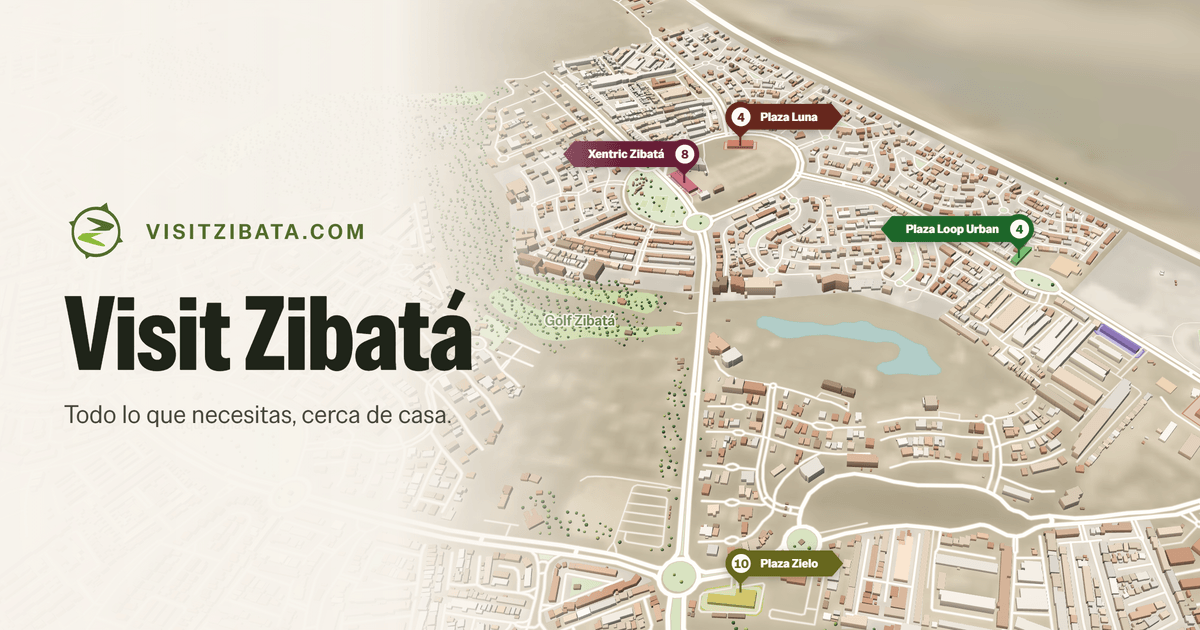
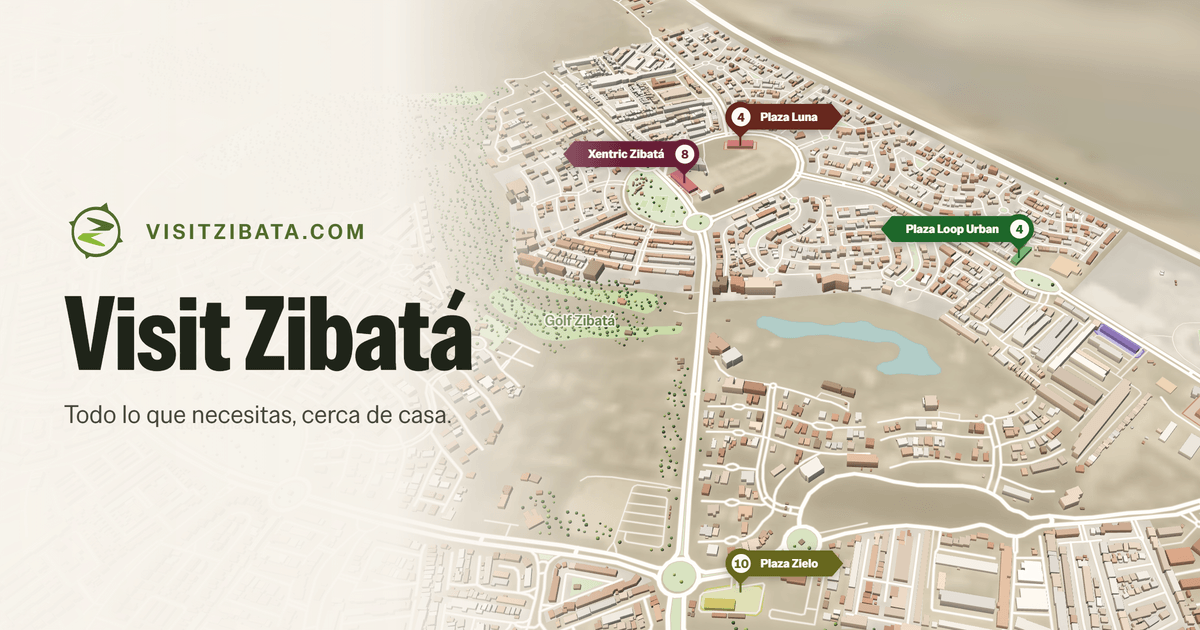
Mapa: el realismo va encendido por defecto (fase 4)
El mapa dibuja suelo, relieve, edificios y árboles propios, y el contexto
alrededor del contorno, para todos los visitantes. ?realismo=no lo apaga
por visitante; apagarlo para todos es revertir este merge.

- Experience lee el parámetro al montar (la sincronización de la URL
  descarta los que no conoce): encendido salvo ?realismo=no.
- Las imágenes sociales se regeneran con el mapa publicado (371 y 370 KB).
- Pruebas: ?realismo=no no pide ni monta nada; sin parámetro llega a
  "completo". La matriz completa pasa con el realismo encendido: 536
  pasadas, 168 omitidas, ninguna fallida.
- deploy.yml: el tope del trabajo pasa de 40 a 50 minutos. El humo de
  escritorio tardó unos 17 minutos en el runner con el realismo apagado
  (despliegue de #60) y ahora cada prueba que abre el mapa dibuja las capas
  propias en software; con 40 no quedaba margen para publicar.

Sin medición en un iPhone real: se activa con el respaldo por falla, la
calidad adaptable y la prueba de WebKit en software como red de seguridad.

diff --git a/tests/e2e/realismo.spec.ts b/tests/e2e/realismo.spec.ts
@@ -2,15 +2,23 @@ import { expect, test } from '@playwright/test'
 import { openApp, waitForMap } from './helpers.ts'
 
 test.describe('Realismo del mapa @mapa', () => {
-  test('sin el parámetro no se pide ninguna capa de realismo', async ({ page }) => {
+  test('con ?realismo=no no se pide ninguna capa de realismo', async ({ page }) => {
     const pedidas: string[] = []
     page.on('request', (request) => {
       if (request.url().includes('/map/realismo/')) pedidas.push(request.url())
     })
-    await openApp(page)
+    await openApp(page, { path: '?realismo=no' })
     await waitForMap(page)
     await page.waitForTimeout(1500)
     expect(pedidas).toEqual([])
+  })
+
+  test('sin parámetro el realismo va encendido y llega a completo', async ({ page }) => {
+    await openApp(page)
+    await waitForMap(page)
+    await expect(page.locator('[data-realismo]')).toHaveAttribute('data-realismo', 'completo', {
+      timeout: 60_000,
+    })
   })
 
   test('con ?realismo=si carga suelo, contexto, calles y relieve del mismo origen, con sus créditos', async ({
@@ -151,8 +159,8 @@ test.describe('Realismo del mapa @mapa', () => {
     await expect(page.locator('button[data-mode]').first()).toBeVisible()
   })
 
-  test('sin el parámetro no se monta ninguna capa propia', async ({ page }) => {
-    await openApp(page)
+  test('con ?realismo=no no se monta ninguna capa propia', async ({ page }) => {
+    await openApp(page, { path: '?realismo=no' })
     await waitForMap(page)
     await page.waitForTimeout(1500)
     await expect(page.locator('[data-realismo]')).toHaveCount(0)

diff --git a/src/app/Experience.tsx b/src/app/Experience.tsx
@@ -223,9 +223,10 @@ function ReadyExperience({ catalog }: { catalog: Catalog }) {
   const sheetPeekHeight = collapsedHeightFor(sheetPeek, viewportHeight, sheetTopReserved)
   const [map, setMap] = useState<MapLibreMap | null>(null)
   const [debugRequested] = useState(() => new URLSearchParams(window.location.search).has('debug'))
-  // Se lee al montar: la sincronización de la URL descarta los parámetros que no conoce.
+  // El realismo va encendido; `?realismo=no` lo apaga. Se lee al montar: la sincronización de la URL
+  // descarta los parámetros que no conoce.
   const [realismo] = useState(
-    () => new URLSearchParams(window.location.search).get('realismo') === 'si',
+    () => new URLSearchParams(window.location.search).get('realismo') !== 'no',
   )
   const [medir] = useState<'si' | 'corto' | undefined>(() => {
     const value = new URLSearchParams(window.location.search).get('medir')

diff --git a/src/features/map/realismo/modo.ts b/src/features/map/realismo/modo.ts
@@ -1,8 +1,8 @@
 /**
- * Opciones del realismo para el estilo. Quien lo pide (hoy solo `?realismo=si`, que lee Experience al
- * montar porque la sincronización de la URL descarta los parámetros que no conoce) decide si va; aquí
- * solo se resuelve qué se descarga. Se enciende para todos en la última fase, cuando el respaldo por
- * falla y la calidad adaptable ya están probados.
+ * Opciones del realismo para el estilo. El realismo va encendido para todos y `?realismo=no` lo apaga;
+ * lo lee Experience al montar (la sincronización de la URL descarta los parámetros que no conoce) y
+ * aquí solo se resuelve qué se descarga. Si algo falla, el respaldo por falla devuelve el mapa de siempre
+ * y la calidad adaptable baja el costo en equipos lentos (ver install.ts y quality.ts).
  */
 import type { RealismoStyleOptions } from '../style/layers/realismo.ts'
 
